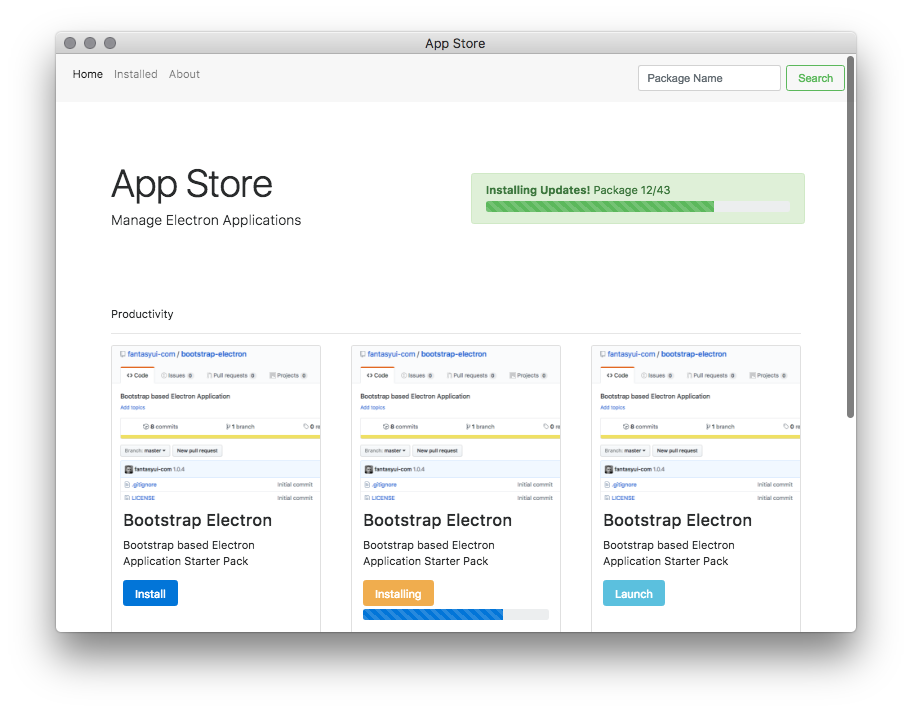
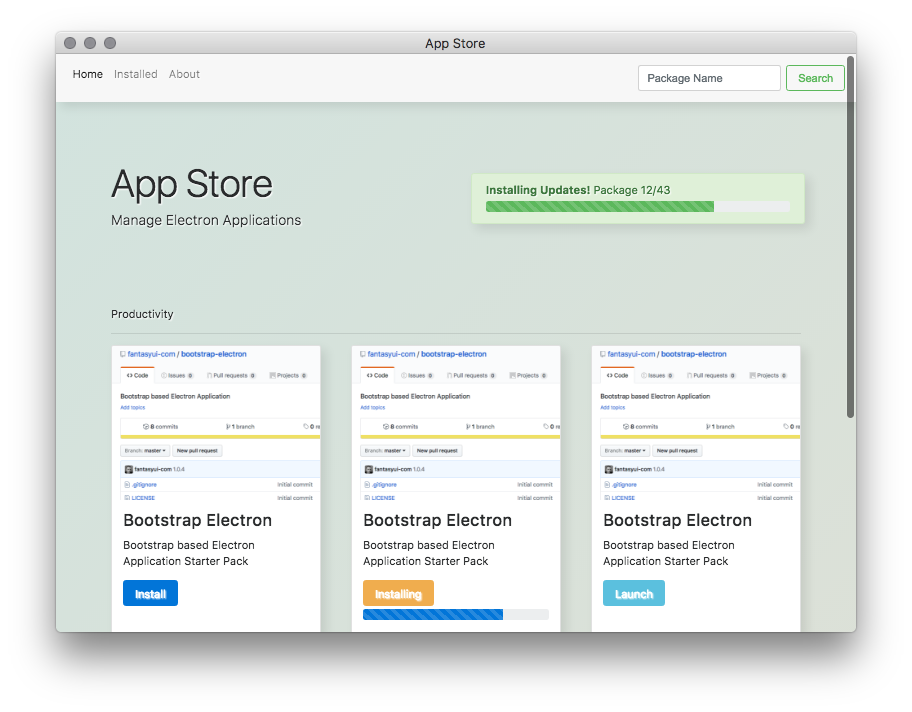
Colors / GUI Demos

diff --git a/index.html b/index.html
@@ -11,6 +11,13 @@
     <style>
     html {
       font-size: 11px;
+      text-shadow: 1px 1px 1px #ffffff;
+    }
+    body {
+      background: linear-gradient(135deg, #d2e3de 0%,#dee0d6 100%);
+    }
+    nav, .card, .alert {
+      box-shadow: 5px 5px 15px rgba(0,0,0,0.1);
     }
     </style>
 
